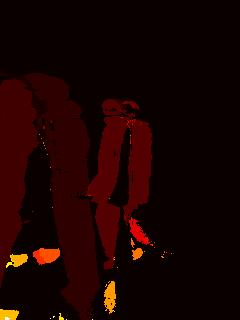
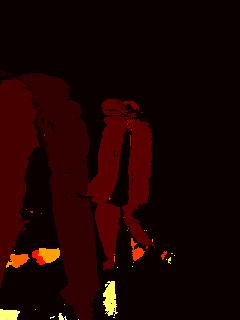
added median

diff --git a/main.py b/main.py
@@ -56,7 +56,7 @@ if __name__ == '__main__':
         with open(f'saved_data/sp_clr_granules{i}.pkl', "rb") as f_im_r_1:
             sp_clr_granules = pickle.load(f_im_r_1)
     except:
-        sp_clr_info, sp_clr_granules = granulation.spatio_color_granules(frames_rgb[i], 50)
+        sp_clr_info, sp_clr_granules = granulation.spatio_color_granules(frames_rgb[i], 20)
         plt.imsave(f'saved_data/spatio_color_granules{i}.jpg', sp_clr_granules, cmap='hot')
         with open(f"saved_data/sp_clr_info{i}.pkl", "wb") as f_info_w_1:
             pickle.dump(sp_clr_info, f_info_w_1)

diff --git a/granulation.py b/granulation.py
@@ -90,6 +90,10 @@ def spatio_temporal_granules(current_frame: np.ndarray,
 	granulated_image = np.zeros((height, width), dtype=np.int32)
 
 	diffs_first2all = np.array([cv2.absdiff(current_frame, frame) for frame in previous_frames])
+
+	median_diff = np.median(diffs_first2all, axis=0)
+	threshold = 0.2 * np.max(median_diff)
+
 	diffs_frame2frame = np.array(
 		[cv2.absdiff(frame1, frame2) for frame1, frame2 in zip(previous_frames, previous_frames[1:])])
 
